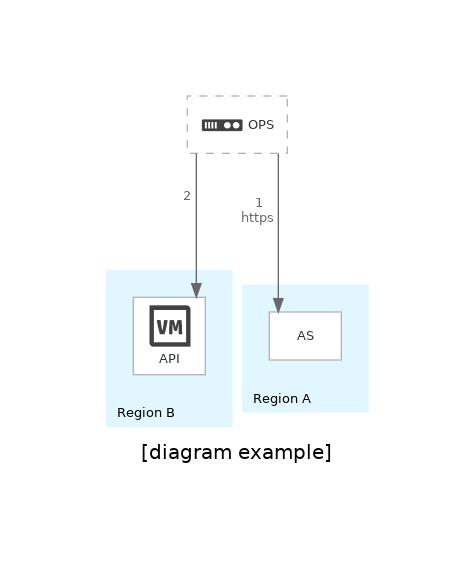
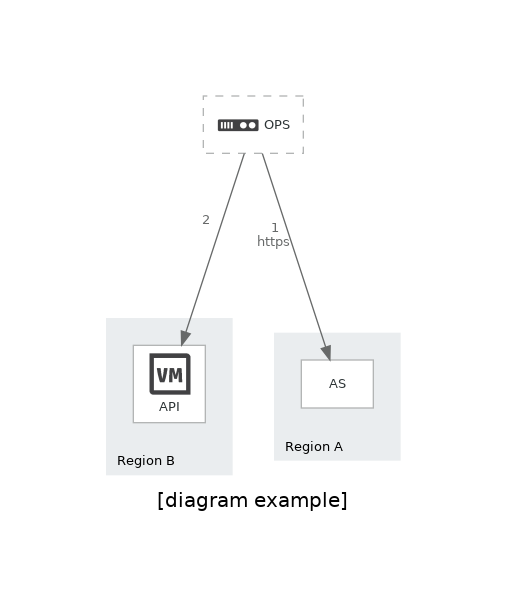
minor updates

Changed region(s): [[0.2063, 0.1499, 0.7958, 0.7496], [0.2358, 0.7196, 0.7074, 0.8395], [0.3832, 0.2698, 0.4716, 0.4198]]

diff --git a/system_designer/designer.py b/system_designer/designer.py
@@ -14,9 +14,9 @@ class Design:
         "compound":"true",
         "rankdir": "TB",
         "pad": "1.0",
-        "splines": "ortho",
-        "nodesep": "0.5",
-        "ranksep": "1.5",
+        "splines": "polyline",
+        "nodesep": "1.0",
+        "ranksep": "2.0",
         "fontname": "Sans-Serif",
         "fontsize": "15",
     }
@@ -50,7 +50,7 @@ class Design:
                 nodes.append(n.id)
         return nodes
 
-    def draw(self, output_file, output_format="png"):
+    def draw(self, output_file, output_format="png", debug=False):
         """draw the final architecture"""
         # reverse the list
         self.groups.reverse()
@@ -105,7 +105,8 @@ class Design:
         # render the diagram
         self.root_graph.render(filename=output_file, format=output_format)
         # remove the graphviz file
-        os.remove(output_file)
+        if not debug:
+            os.remove(output_file)
 
         # create html legend
         self.write_legend(output_file)
@@ -175,7 +176,7 @@ def yaml_loader():
     loader.add_constructor("!lk", link.constructor)
     return loader
 
-def generate(archi_file, output_file, output_format):
+def generate(archi_file, output_file, output_format, debug):
     """load the yaml file and draw the associated design"""
     try:
         with open(archi_file, "rb") as f:
@@ -188,4 +189,4 @@ def generate(archi_file, output_file, output_format):
             sys.exit(1)
 
         # draw schema
-        design["architecture"].draw(output_file, output_format)
+        design["architecture"].draw(output_file, output_format, debug)

diff --git a/system_designer/__main__.py b/system_designer/__main__.py
@@ -8,7 +8,7 @@ def setup_cli():
     options.add_argument("-y", help="architecture yaml file", required=True) 
     options.add_argument("-o", help="output file path", required=True) 
     options.add_argument("-f", help="output file format (default: %(default)r)", default="png") 
-    options.add_argument('-v', action='store_true', help="verbose mode")
+    options.add_argument('-d', action='store_true', help="debug mode")
 
     return options
 
@@ -17,7 +17,7 @@ def start_up():
     options = setup_cli()
     args = options.parse_args()
 
-    designer.generate(archi_file=args.y, output_file=args.o, output_format=args.f)
+    designer.generate(archi_file=args.y, output_file=args.o, output_format=args.f, debug=args.d)
 
 if __name__ == '__main__':
     start_up()

diff --git a/system_designer/group.py b/system_designer/group.py
@@ -4,7 +4,7 @@ import graphviz
 from system_designer import common
 
 class Group:
-    bgcolors = ("#E5F5FD", "#EBF3E7", "#ECE8F6", "#FDF7E3")
+    bgcolors = ( "#eaedef",  "#E5F5FD", "#FDF7E3", "#EBF3E7")
     group_attrs = {
         "shape": "box",
         "fontname": "Sans-Serif",
@@ -12,10 +12,10 @@ class Group:
         "fontcolor": "black",
         "margin": "20.0",
         "style": "filled",
-        "color": "#e1f6fe",
-        "fillcolor": "#e1f6fe",
+        "color": "#eaedef",
+        "fillcolor": "#eaedef",
         "labeljust": "l",
-        "labelloc": "b"
+        "labelloc": "b",
     }
     def __init__(self, label, parent=None, **attrs):
         """Group class"""
